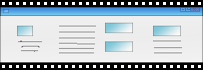
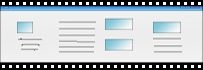
added alot of GUI css and stuff

diff --git a/ScreenTeamFX/src/gui/application.css b/ScreenTeamFX/src/gui/application.css
@@ -1,6 +1,6 @@
 .dragicon {
 	-fx-background-radius: 10;
-	-fx-background-color: rgba(75,75,75,0.1); 
+	-fx-background-color: rgba(50,50,50,0.1); 
 	 
 }
 
@@ -107,6 +107,12 @@
 	/*-fx-background-color: rgba(255,255,0,0.5); */
 }
 
+.background-fileimporter{
+	-fx-background-image: url("../../resources/background_fileimporter.png");
+	-fx-background-repeat: no-repeat;
+	-fx-background-size: cover;
+}
+
 .background-advancedScreen {
 	-fx-background-image: url("../../resources/background_dokkhuset.png");
 	-fx-background-repeat: no-repeat;
@@ -130,6 +136,12 @@
 	-fx-font-size: 72;
 }
 
+.header-medium {
+	-fx-fill: linear-gradient(palegreen,seagreen);
+	-fx-font-family: Helvetica;
+	-fx-font-size: 48;
+}
+
 .header-smal {
 	-fx-fill: linear-gradient(cyan,white);
 	-fx-font-family: Helvetica;
@@ -138,17 +150,56 @@
 
 
 .up-button{
-	/*
-	-fx-background-image: url("../../resources/timelineInfo_up.png");
-	-fx-background-position: center;
-	*/
+
+	-fx-background-image: url("../../resources/arrowUp.png");
+	-fx-background-size: 20;
+	-fx-background-repeat: no-repeat;
+	-fx-background-size: cover;
+	-fx-font: 7 arial;
+	-fx-text-fill: rgba(100,100, 100, 0);
 }
 
 .down-button{
-	/*
-	-fx-background-image: url("../../resources/timelineInfo_down.png");
+	-fx-background-image: url("../../resources/arrowDown.png");
+	-fx-background-repeat: no-repeat;
 	-fx-background-position: center;
-	*/
+	-fx-padding: 1, 1, 1, 1;
+}
+
+.icon-soundmuteoff{
+	-fx-background-image: url("../../resources/icon_muteSoundOff.png");
+	-fx-background-size: 20;
+	-fx-background-repeat: no-repeat;
+	-fx-background-position: center;
+}
+
+.icon-soundmuteon{
+	-fx-background-image: url("../../resources/icon_muteSoundOn.png");
+	-fx-background-size: 20;
+	-fx-background-repeat: no-repeat;
+	-fx-background-position: center;
+	-fx-padding: 1, 1, 1, 1;
+}
+
+.remove-timeline-btn {
+	-fx-font: 8 arial;
+	-fx-text-fill: RED;
+}
+
+.icon-videomuteoff{
+	-fx-background-image: url("../../resources/icon_muteVideoOff.png");
+	-fx-background-size: 20;
+	-fx-background-repeat: no-repeat;
+	-fx-background-position: center;
+	-fx-padding: 1, 1, 1, 1;
+}
+
+.icon-videomuteon{
+	-fx-background-image: url("../../resources/icon_muteVideoOn.png");
+	-fx-background-size: 20;
+	-fx-background-repeat: no-repeat;
+	-fx-background-position: center;
+	-fx-padding: 1, 1, 1, 1;
 }
 
 

diff --git a/ScreenTeamFX/src/gui/TimelineController.java b/ScreenTeamFX/src/gui/TimelineController.java
@@ -3,6 +3,7 @@ package gui;
 import java.io.IOException;
 import java.util.ArrayList;
 import java.util.Iterator;
+import java.util.Optional;
 
 import org.controlsfx.control.CheckComboBox;
 
@@ -16,11 +17,14 @@ import javafx.event.ActionEvent;
 import javafx.event.EventHandler;
 import javafx.fxml.FXML;
 import javafx.fxml.FXMLLoader;
+import javafx.scene.control.Alert;
 import javafx.scene.control.Button;
+import javafx.scene.control.ButtonType;
 import javafx.scene.control.ComboBox;
 import javafx.scene.control.Label;
 import javafx.scene.control.TextArea;
 import javafx.scene.control.TextField;
+import javafx.scene.control.Alert.AlertType;
 import javafx.scene.input.MouseEvent;
 import javafx.scene.layout.AnchorPane;
 import javafx.scene.layout.GridPane;
@@ -40,6 +44,7 @@ public class TimelineController implements FXMLController {
 	private AdvancedScreenController parentController;
 	private TimelineLineController childController;
 	private GridPane rootPane;
+	private Alert alert;
 	
 	@FXML GridPane timelineInfo;
 	@FXML GridPane timelineContainer;
@@ -54,6 +59,8 @@ public class TimelineController implements FXMLController {
 	
 	@FXML Label titleLabel;
 	@FXML Label muteLabel;
+	@FXML Button muteVideo;
+	@FXML Button muteSound;
 	
 	//The timelinemodel that corresponds to this controller
 	TimelineModel timelineModel;
@@ -97,9 +104,20 @@ public class TimelineController implements FXMLController {
 		getTimelineLineController().moveTimeline(parentController.getScrollBarPosition());
 		
 		initializeTimelineInfo();
+		initializeAlerts();
 		
 		
-		
+	}
+	
+	
+	/**
+	 *Initializes the alert box that is displayed when the user right clicks the mediaObject and presses remove.
+	 */
+	private void initializeAlerts(){
+		alert = new Alert(AlertType.CONFIRMATION);
+		alert.setTitle("Confirmation Dialog");
+		alert.setHeaderText("Delete Timeline");
+		alert.setContentText("Do you really want to delete this Timeline?");
 	}
 	
 	/**
@@ -151,12 +169,30 @@ public class TimelineController implements FXMLController {
 		
 		if(((Button)event.getSource()).getId().equals("removeTimelineBtn") ){
 			//Removes the timeline from the AdvanceScreen Children list
-			parentController.removeTimeline(this);
+			Optional<ButtonType> result = alert.showAndWait();
+			if (result.get() == ButtonType.OK){
+			    // ... user chose OK
+				parentController.removeTimeline(this);
+			} else {
+			    // ... user chose CANCEL or closed the dialog
+			}
+			
 			
 		}else if(((Button)event.getSource()).getId().equals("muteVideo") ){
 			//Mutes all the videos on this timeline
+			
 		}else if(((Button)event.getSource()).getId().equals("muteSound") ){
 			//Mutes all the sound on this timeline
+//			if(muted){
+//				muteSound.getStyleClass().remove("icon-soundmuteon");
+//				muteSound.getStyleClass().add("icon-soundmuteoff");
+//				//UnMute
+//			}else{
+//				muteSound.getStyleClass().remove("icon-soundmuteoff");
+//				muteSound.getStyleClass().add("icon-soundmuteon");
+//				//Mutes
+//			}
+			
 		}
 		else if(((Button)event.getSource()).getId().equals("moveUp") ){
 			parentController.moveTimeline("up",timelineModel);

diff --git a/ScreenTeamFX/src/gui/AdvancedScreen.java b/ScreenTeamFX/src/gui/AdvancedScreen.java
@@ -185,7 +185,7 @@ public class AdvancedScreen implements Screen{
 			timelineBarContainer.getChildren().add(timelineBarController);
 
 			//Displays global time to the userinterface
-			timelineBarGlobalTime.setText("GlobalTime: " + getTimeAsText(currentSession.getGlobalTime()));
+			timelineBarGlobalTime.setText("Time: " + getTimeAsText(currentSession.getGlobalTime()));
 
 
 			//initializeScrollPane
@@ -764,7 +764,7 @@ public class AdvancedScreen implements Screen{
 			timelineBarController.getSeeker().placeSeeker(newGlobalTime);
 			Platform.runLater(new Runnable() {
 				@Override public void run() {
-					timelineBarGlobalTime.setText("GlobalTime: " + getTimeAsText(newGlobalTime));                      
+					timelineBarGlobalTime.setText("Time: " + getTimeAsText(newGlobalTime));                      
 				}
 			});
 
